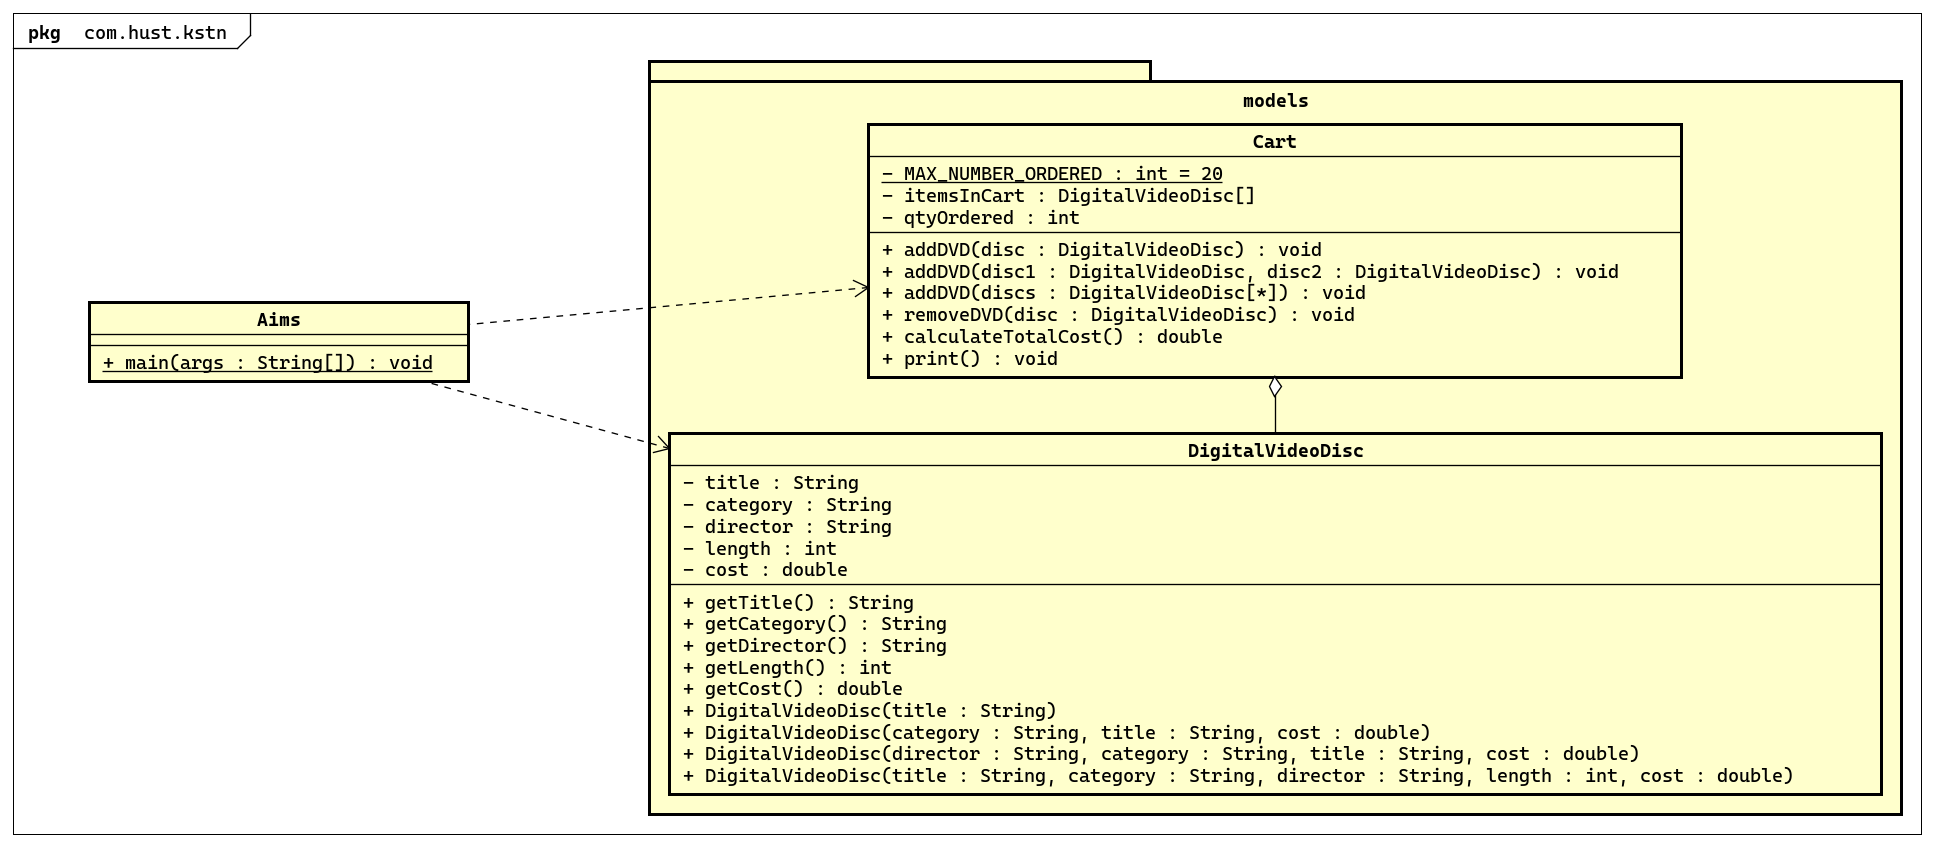
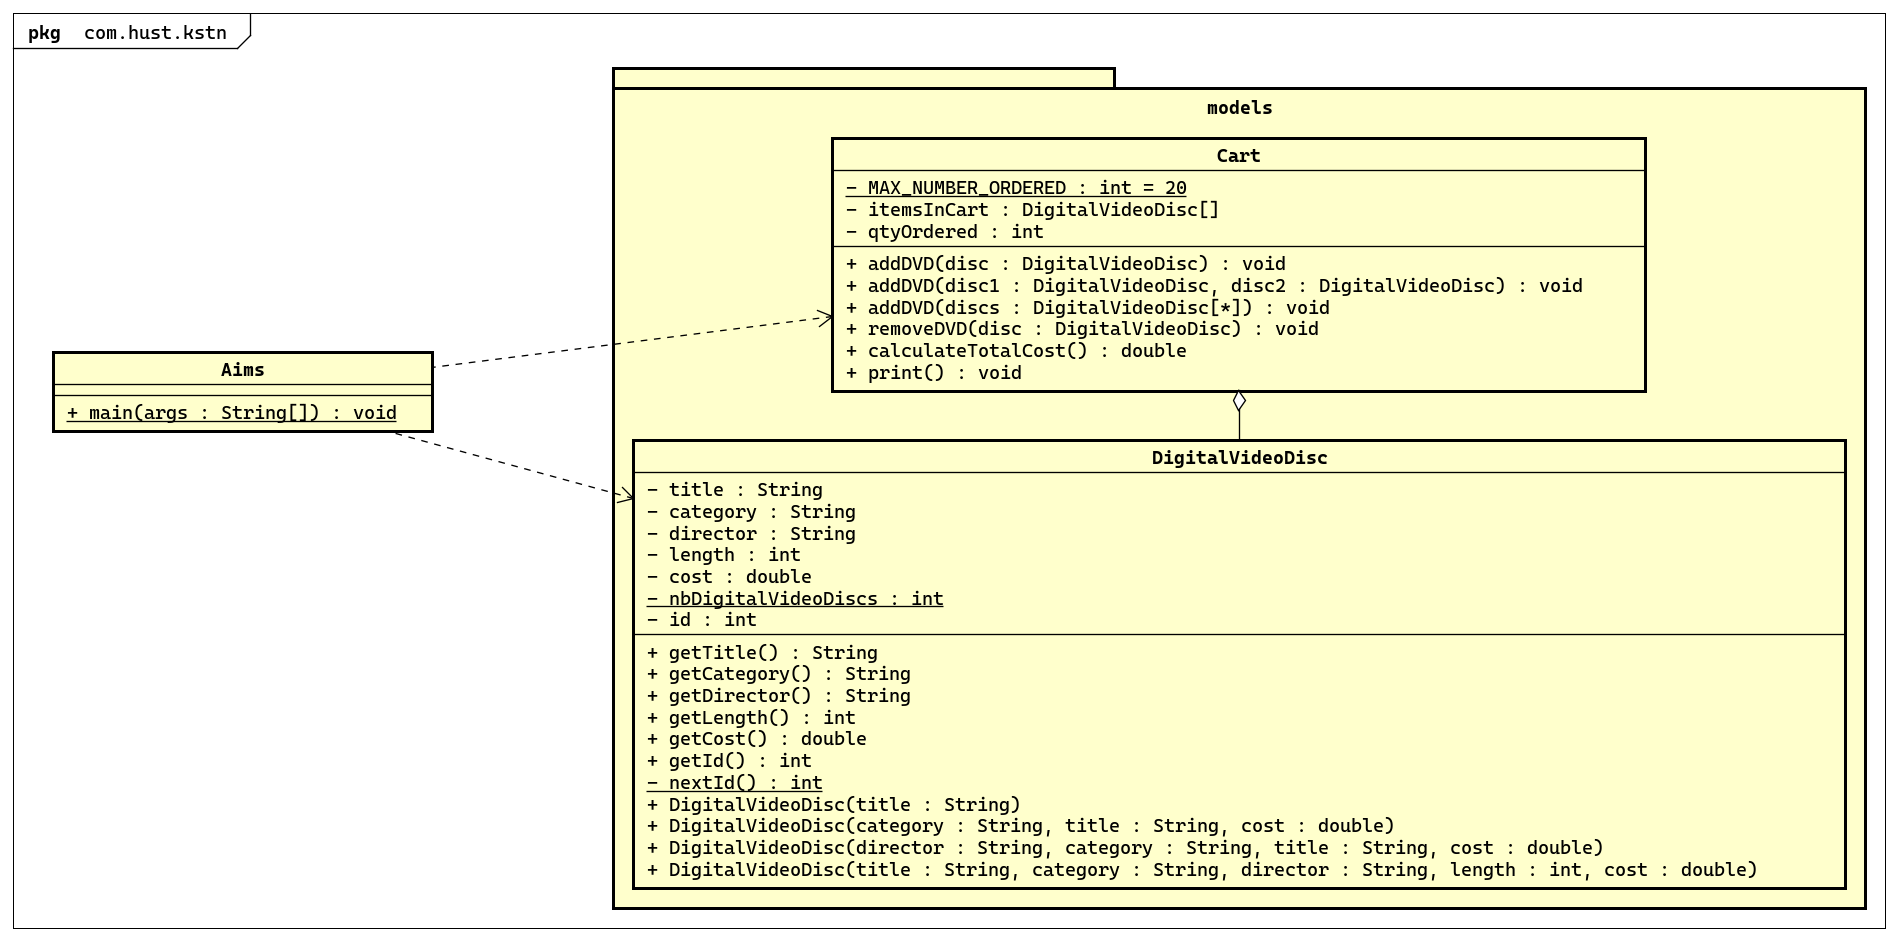
Add DVD ID

Changed region(s): [[0.0, 0.0613, 0.9947, 1.0], [0.0, 0.0, 0.9947, 0.0613], [0.0, 0.3373, 0.2487, 0.4599]]

diff --git a/AimsProject/src/com/hust/kstn/models/DigitalVideoDisc.java b/AimsProject/src/com/hust/kstn/models/DigitalVideoDisc.java
@@ -2,11 +2,13 @@ package com.hust.kstn.models;
 
 public class DigitalVideoDisc {
 
+    private static int nbDigitalVideoDiscs = 0;
     private String title;
     private String category;
     private String director;
     private int length;
     private double cost;
+    private int id;
 
     public String getTitle() {
         return title;
@@ -28,17 +30,28 @@ public class DigitalVideoDisc {
         return cost;
     }
 
+    public int getId() {
+        return id;
+    }
+
+    private static int nextId() {
+        return ++nbDigitalVideoDiscs;
+    }
+
     public DigitalVideoDisc(String title) {
+        this.id = nextId();
         this.title = title;
     }
 
     public DigitalVideoDisc(String category, String title, double cost) {
+        this.id = nextId();
         this.title = title;
         this.category = category;
         this.cost = cost;
     }
 
     public DigitalVideoDisc(String director, String category, String title, double cost) {
+        this.id = nextId();
         this.director = director;
         this.category = category;
         this.title = title;
@@ -46,6 +59,7 @@ public class DigitalVideoDisc {
     }
 
     public DigitalVideoDisc(String title, String category, String director, int length, double cost) {
+        this.id = nextId();
         this.title = title;
         this.category = category;
         this.director = director;

diff --git a/AimsProject/src/com/hust/kstn/models/Cart.java b/AimsProject/src/com/hust/kstn/models/Cart.java
@@ -71,9 +71,9 @@ public class Cart {
         System.out.println("All items in cart:");
         for (int i = 0; i < qtyOrdered; i++) {
             System.out.println(
-                    (i + 1) + ". [Title]: " + itemsInCart[i].getTitle() + ", [Cost]: " + itemsInCart[i].getCost());
+                    itemsInCart[i].getId() + ": " + itemsInCart[i].getTitle() + " - $" + itemsInCart[i].getCost());
         }
-        System.out.printf("Total cost: %.2f\n", calculateTotalCost());
+        System.out.printf("Total cost: $%.2f\n", calculateTotalCost());
         System.out.println("===============================================");
     }
 }
